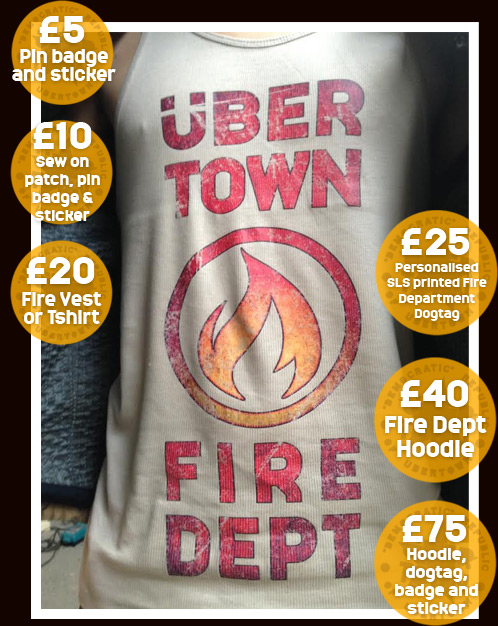
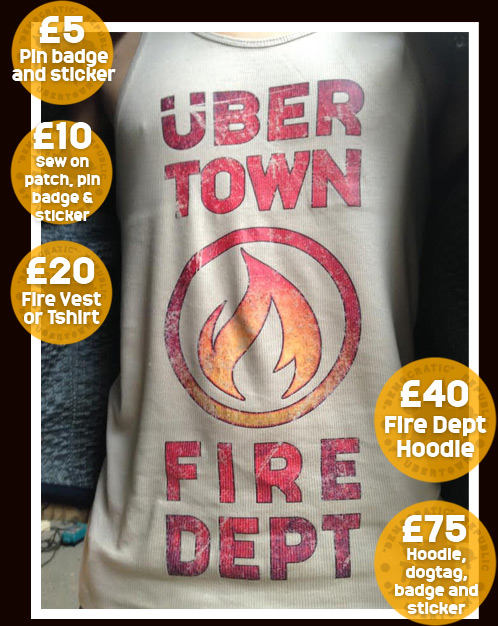
Add dogtag image, update video

Changed region(s): [[0.753, 0.3339, 1.0, 0.5463]]

diff --git a/index.html b/index.html
@@ -56,7 +56,7 @@
           <div class="video inner">
             <a class="anchor" id="video" name="video"></a>
             <div class="video-wrapper">
-              <iframe src="http://player.vimeo.com/video/22439234" width="581" height="327" frameborder="0" webkitallowfullscreen mozallowfullscreen allowfullscreen>
+              <iframe src="http://player.vimeo.com/video/97653428" width="581" height="327" frameborder="0" webkitallowfullscreen mozallowfullscreen allowfullscreen>
               </iframe>
 
               <div class="paypal-header">
@@ -148,10 +148,6 @@
             </div>
 
             <div class="left-col">
-              <img src="images/rewards.jpg">
-            </div>
-
-            <div class="right-col">
               <p>It’s important to us that you get something for your
                 contribution. So we’re trying something new for a crowd funding
                 campaign and we're giving you something you can actually use
@@ -159,7 +155,13 @@
                 of Übertown swag as perks.
               </p>
 
-              <img src="images/name-a-cannon.jpg">
+              <img src="images/rewards.jpg">
+            </div>
+
+            <div class="right-col">
+              <img class="dogtag" src="images/dogtag.jpg">
+
+              <img class="cannon" src="images/name-a-cannon.jpg">
             </div>
 
             <div class="clearfix"></div>

diff --git a/css/main.css b/css/main.css
@@ -256,13 +256,19 @@ p.last {
 }
 
 .rewards .left-col {
-  margin-top: 36px;
+  margin-top: 50px;
   width: 498px;
   float: left;
 }
 
+.rewards .left-col p {
+  margin-left: 30px;
+  width: 80%;
+  margin-bottom: 47px;
+}
+
 .rewards .right-col {
-  margin-top: 66px;
+  margin-top: 0px;
   float: right;
   width: 444px;
 }
